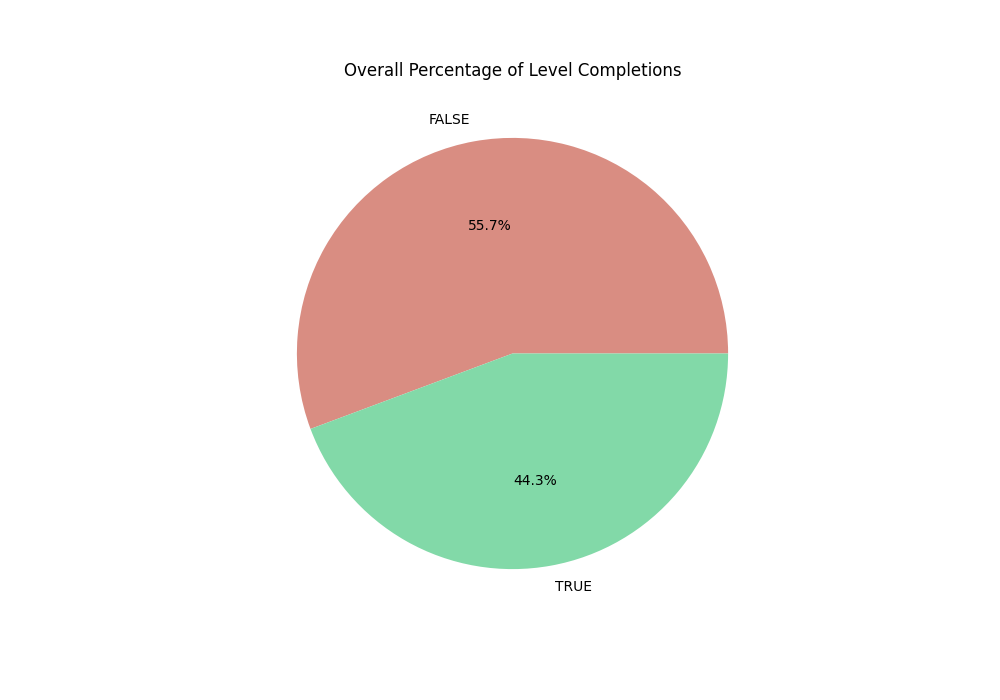
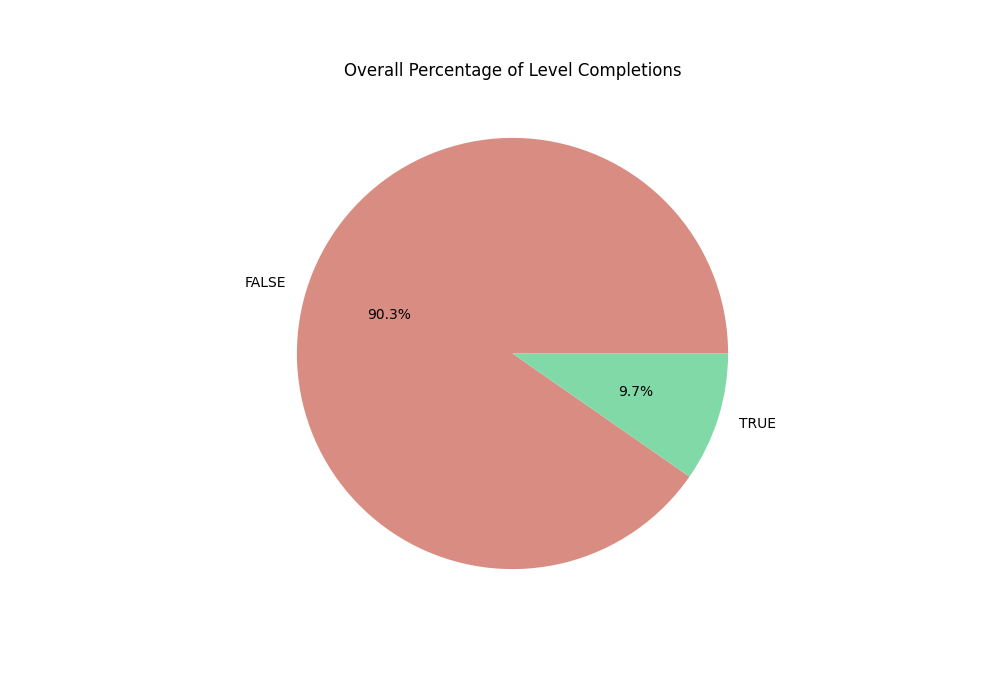
update analytics with master data

diff --git a/analytics/analytics.py b/analytics/analytics.py
@@ -11,56 +11,64 @@ did_finish_sheet = gc.open_by_url('https://docs.google.com/spreadsheets/d/1HrI4z
 portal_use_sheet = gc.open_by_url('https://docs.google.com/spreadsheets/d/1uWWQ7coQKffPQeyn5jsCq6Yql5bWVQF2VBqAhQCD-YY/edit?usp=sharing')
 health_sheet = gc.open_by_url('https://docs.google.com/spreadsheets/d/17BnmISvDoqx76OJoc0MhrI1-VB9Xx0b_h_3YYyjmU40/edit?resourcekey#gid=919270586')
 enemy_sheet = gc.open_by_url('https://docs.google.com/spreadsheets/d/1-sthW5lMDrmSKu5H8Zf1oSOL-aAarPrSni6j-SYWtO4/edit?resourcekey#gid=1919056539')
+# Master 
+master_sheet = gc.open_by_url('https://docs.google.com/spreadsheets/d/1kLuixeZApgd2pH9_NH4nJU2XvfMmd7NdkVaFAj9-zHk/edit#gid=749049105')
 
 did_finish_sheet = did_finish_sheet.worksheet('Form Responses 1')
 portal_use_sheet = portal_use_sheet.worksheet('Form Responses 1')
 health_sheet = health_sheet.worksheet('Form Responses 1')
 enemy_sheet = enemy_sheet.worksheet('Form Responses 1')
+master_sheet = master_sheet.worksheet('Form Responses 1')
 
 did_finish_df = pd.DataFrame(did_finish_sheet.get_all_records())
 portal_use_df = pd.DataFrame(portal_use_sheet.get_all_records())
 health_df = pd.DataFrame(health_sheet.get_all_records())
 enemy_df = pd.DataFrame(enemy_sheet.get_all_records())
+master_df = pd.DataFrame(master_sheet.get_all_records())
 
 did_finish_df.drop('Timestamp', axis=1, inplace=True)
 portal_use_df.drop('Timestamp', axis=1, inplace=True)
 health_df.drop('Timestamp', axis=1, inplace=True)
 enemy_df.drop('Timestamp', axis=1, inplace=True)
+master_df.drop('Timestamp', axis=1, inplace=True)
 
-print(health_df)
-print(enemy_df)
+
+# Remove prefixes from variables
+master_df = master_df.replace('Session-', '', regex=True)
+master_df = master_df.replace('Level_', '', regex=True)
+print(master_df)
 
 """
 Metric 1: Enemies Encountered
 """
-# Add a variable for level 
-enemy_df['level'] = 1
-enemy_df.reset_index()
-print(enemy_df)
+def enemies_encountered(df, df_name):
+    print('function start')
+    # Calculate the average number of enemies encountered and killed by level
+    df = df.groupby(['level'])[['enemies_encountered', 'enemies_killed']].mean().reset_index()
+    print(len(df))
+    # Create a side-by-side bar plot  
+    # Number of pairs of bars
+    N = len(df)
+    ind = np.arange(N)
+    width = 0.3
+    print('test')
+    plt.bar(ind, tuple(df['enemies_encountered']), width, label = 'Enemies Encountered', color = "#6596C7")
+    plt.bar(ind + width, tuple(df['enemies_killed']), width, label = 'Enemies Killed', color = "#7fcdbb")
+    print('test')
+    plt.xlabel('Level')
+    plt.ylabel('Average Number of Enemies')
+    plt.suptitle('Average Number of Enemies Encountered vs. Killed')
+    plt.title('By Level')
+    print('test')
 
-# Calculate the average number of enemies encountered and killed by level
-enemy_df = enemy_df.groupby(['level'])[['enemies_enocountered', 'enemies_killed']].mean().reset_index()
-print(enemy_df)
-print(len(enemy_df))
+    level_labels = tuple(str(item) for item in tuple(df['level']))
+    plt.xticks(ind + width / 2, level_labels)
+    print('test')
+    plt.legend(loc='best')
+    plt.savefig(df_name + '_plot.png')
+    plt.close()
 
-# Create a side-by-side bar plot for 
-# Number of pairs of bars
-N = len(enemy_df)
-ind = np.arange(N)
-width = 0.3
-plt.bar(ind, tuple(enemy_df['enemies_enocountered']), width, label = 'Enemies Encountered', color = "#6596C7")
-plt.bar(ind + width, tuple(enemy_df['enemies_killed']), width, label = 'Enemies Killed', color = "#7fcdbb")
-plt.xlabel('Level')
-plt.ylabel('Average Number of Enemies')
-plt.suptitle('Average Number of Enemies Encountered vs. Killed')
-plt.title('By Level')
-
-level_labels = tuple(str(item) for item in tuple(enemy_df['level']))
-plt.xticks(ind + width / 2, level_labels)
-
-plt.legend(loc='best')
-plt.savefig('enemies_plot.png')
-plt.close()
+enemies_encountered(master_df, 'enemies')
 
 """
 Metric 2: Health of Player
@@ -68,25 +76,22 @@ Metric 2: Health of Player
 ### Plot 1: Average Player Health
 ### Side-by-side bar plots grouped by level
 
-# Add a variable for level 
-health_df['level'] = 1
-health_df.reset_index()
-print(health_df)
-
 # Calculate the average player health at the end of each level
-health_df_avg = health_df.groupby(['level'])['health_level'].mean().reset_index()
-print(health_df_avg)
-print(len(health_df_avg))
+health_master_df_avg = master_df.groupby(['level'])['health_at_end'].mean().reset_index()
+print(health_master_df_avg)
+print(len(health_master_df_avg))
 
 # Create a side-by-side bar plot for 
 # Number of pairs of bars
-game_level_labels = tuple(str(item) for item in tuple(health_df_avg['level']))
-health_level_labels = tuple(health_df_avg['health_level'])
+game_level_labels = tuple(str(item) for item in tuple(health_master_df_avg['level']))
+health_level_labels = tuple(health_master_df_avg['health_at_end'])
 plt.bar(game_level_labels, health_level_labels, width = 0.3, color = "#6596C7")
-plt.ylim(0, 1.5)
+plt.ylim(-1.5, 1.5)
+threshold = 0
 plt.xlabel('Level')
 plt.ylabel('Average Health')
 plt.title('Average Player Health at End of Level')
+plt.axhline(y=threshold,linewidth=1, color='k')
 
 for x,y in zip(game_level_labels,health_level_labels):
 
@@ -106,7 +111,7 @@ plt.close()
 ### Plot 2: Level 1 Distribution of Player Health
 ### Vertically stacked bar plots for each level
 
-sns.countplot(x = 'health_level', data = health_df, palette = ["#6596C7"])
+sns.countplot(x = 'health_at_end', data = master_df, palette = ["#6596C7"])
 plt.title("Player Health Disribution")
 plt.xlabel("End of Level Health")
 plt.ylabel("Number of Players")
@@ -119,11 +124,8 @@ Metric 3: Level Completions
 ### Plot 1: Count of Completions: Bar
 ### Side-by-side bar plots grouped by level
 
-did_finish_df['level'] = 1
-did_finish_df.reset_index()
-print(did_finish_df)
 sns.color_palette("hls", 8)
-sns.countplot(x ='did_finish', data = did_finish_df, palette= ["#7fcdbb", "#edf8b1"])
+sns.countplot(x ='finished_level', data = master_df, palette= ["#7fcdbb", "#edf8b1"])
 plt.title("No of players to finish the level - T or F")
 plt.xlabel("Did player finish?")
 plt.ylabel("No of players")
@@ -136,12 +138,12 @@ plt.close()
 
 ### Plot 3: Overall Percentage of Completions
 ### Pie Chart
-did_finish_df['count_val'] = 1
-did_finish_df_counts = did_finish_df.groupby(['did_finish']).sum().reset_index()
+master_df['count_val'] = 1
+did_finish_df_counts = master_df.groupby(['finished_level']).sum().reset_index()
 
 colors = ['#D98D82', '#82D9A8']
 fig = plt.figure(figsize =(10, 7))
-plt.pie(did_finish_df_counts['count_val'], labels=did_finish_df_counts['did_finish'], autopct='%1.1f%%', colors=colors)
+plt.pie(did_finish_df_counts['count_val'], labels=did_finish_df_counts['finished_level'], autopct='%1.1f%%', colors=colors)
 plt.title("Overall Percentage of Level Completions")
 plt.savefig('did_finish_pie_plot.png')
 plt.close()
@@ -151,7 +153,7 @@ Metric 4: Portal Use
 """
 portal_use_merge = pd.merge(did_finish_df, portal_use_df, on='sessionID', how="outer")
 
-portal_use_merge['portal_used'] = portal_use_merge['portal_used'].apply(lambda x: "no" if pd.isnull(x) else "yes")
+portal_use_merge['portal_used'] = master_df['portal_used'].apply(lambda x: "no" if pd.isnull(x) else "yes")
 portal_use_merge.drop_duplicates(inplace=True, ignore_index=True)
 
 sns.countplot(x ='portal_used', data = portal_use_merge, palette= ["#7fcdbb", "#edf8b1"])

diff --git a/analytics/data_to_json.py b/analytics/data_to_json.py
@@ -1,0 +1,25 @@
+from itertools import count
+import gspread as gs
+import pandas as pd
+import seaborn as sns
+import matplotlib.pyplot as plt
+import numpy as np
+
+# Load Google Sheets data into Pandas dataframes
+gc = gs.service_account(filename='foxtrot-analytics.json')
+master_sheet = gc.open_by_url('https://docs.google.com/spreadsheets/d/1kLuixeZApgd2pH9_NH4nJU2XvfMmd7NdkVaFAj9-zHk/edit?usp=sharing')
+master_sheet = master_sheet.worksheet('Form Responses 1')
+
+master_df = pd.DataFrame(master_sheet.get_all_records())
+
+master_df.drop('Timestamp', axis=1, inplace=True)
+
+print(master_df)
+
+master_df['count_finished'] = 1
+
+# count number of false per level and number of true
+test = master_df.groupby(['finished_level', 'level']).sum().reset_index()
+print(test)
+#finished_level_dict = {'Level_0': ['finished_level']}
+master_df = master_df.groupby(['level'])[['enemies_enocountered', 'enemies_killed']].mean().reset_index()
